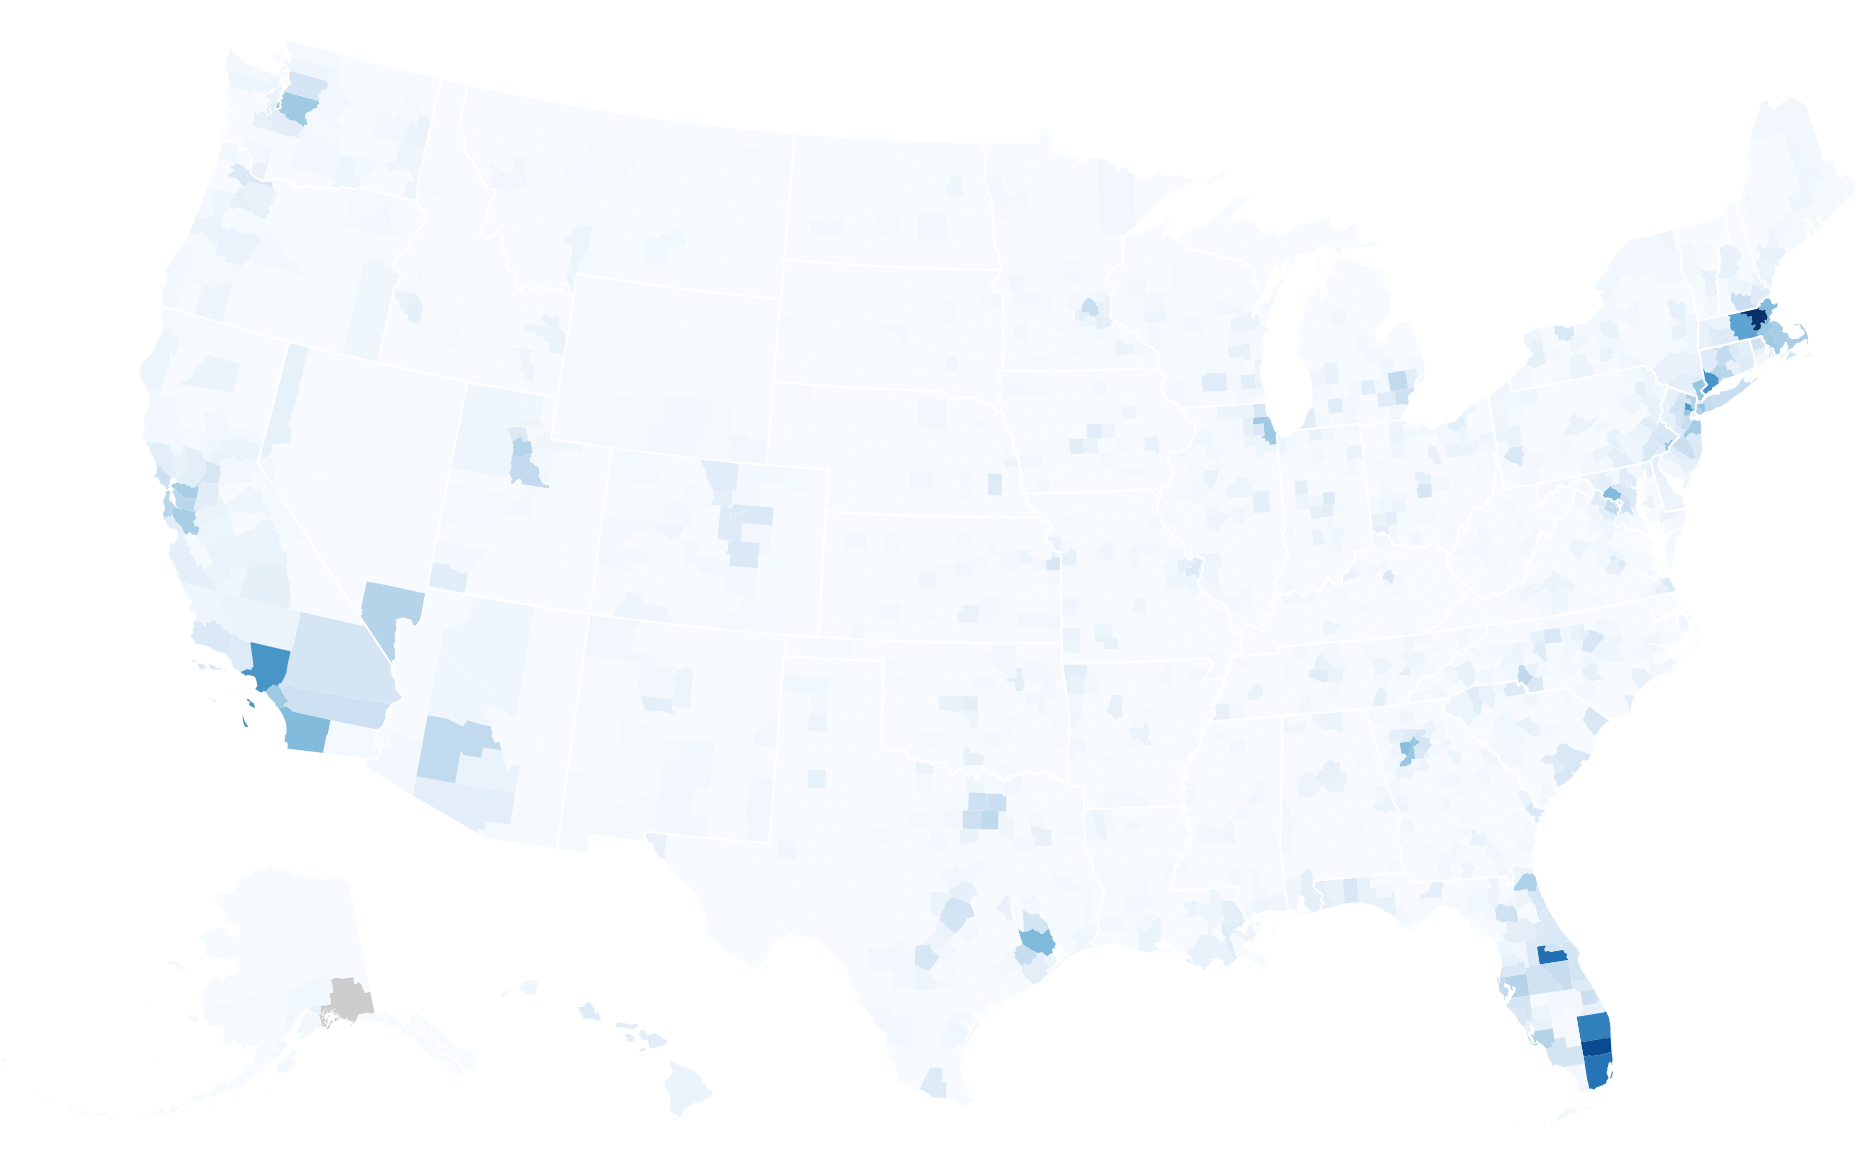
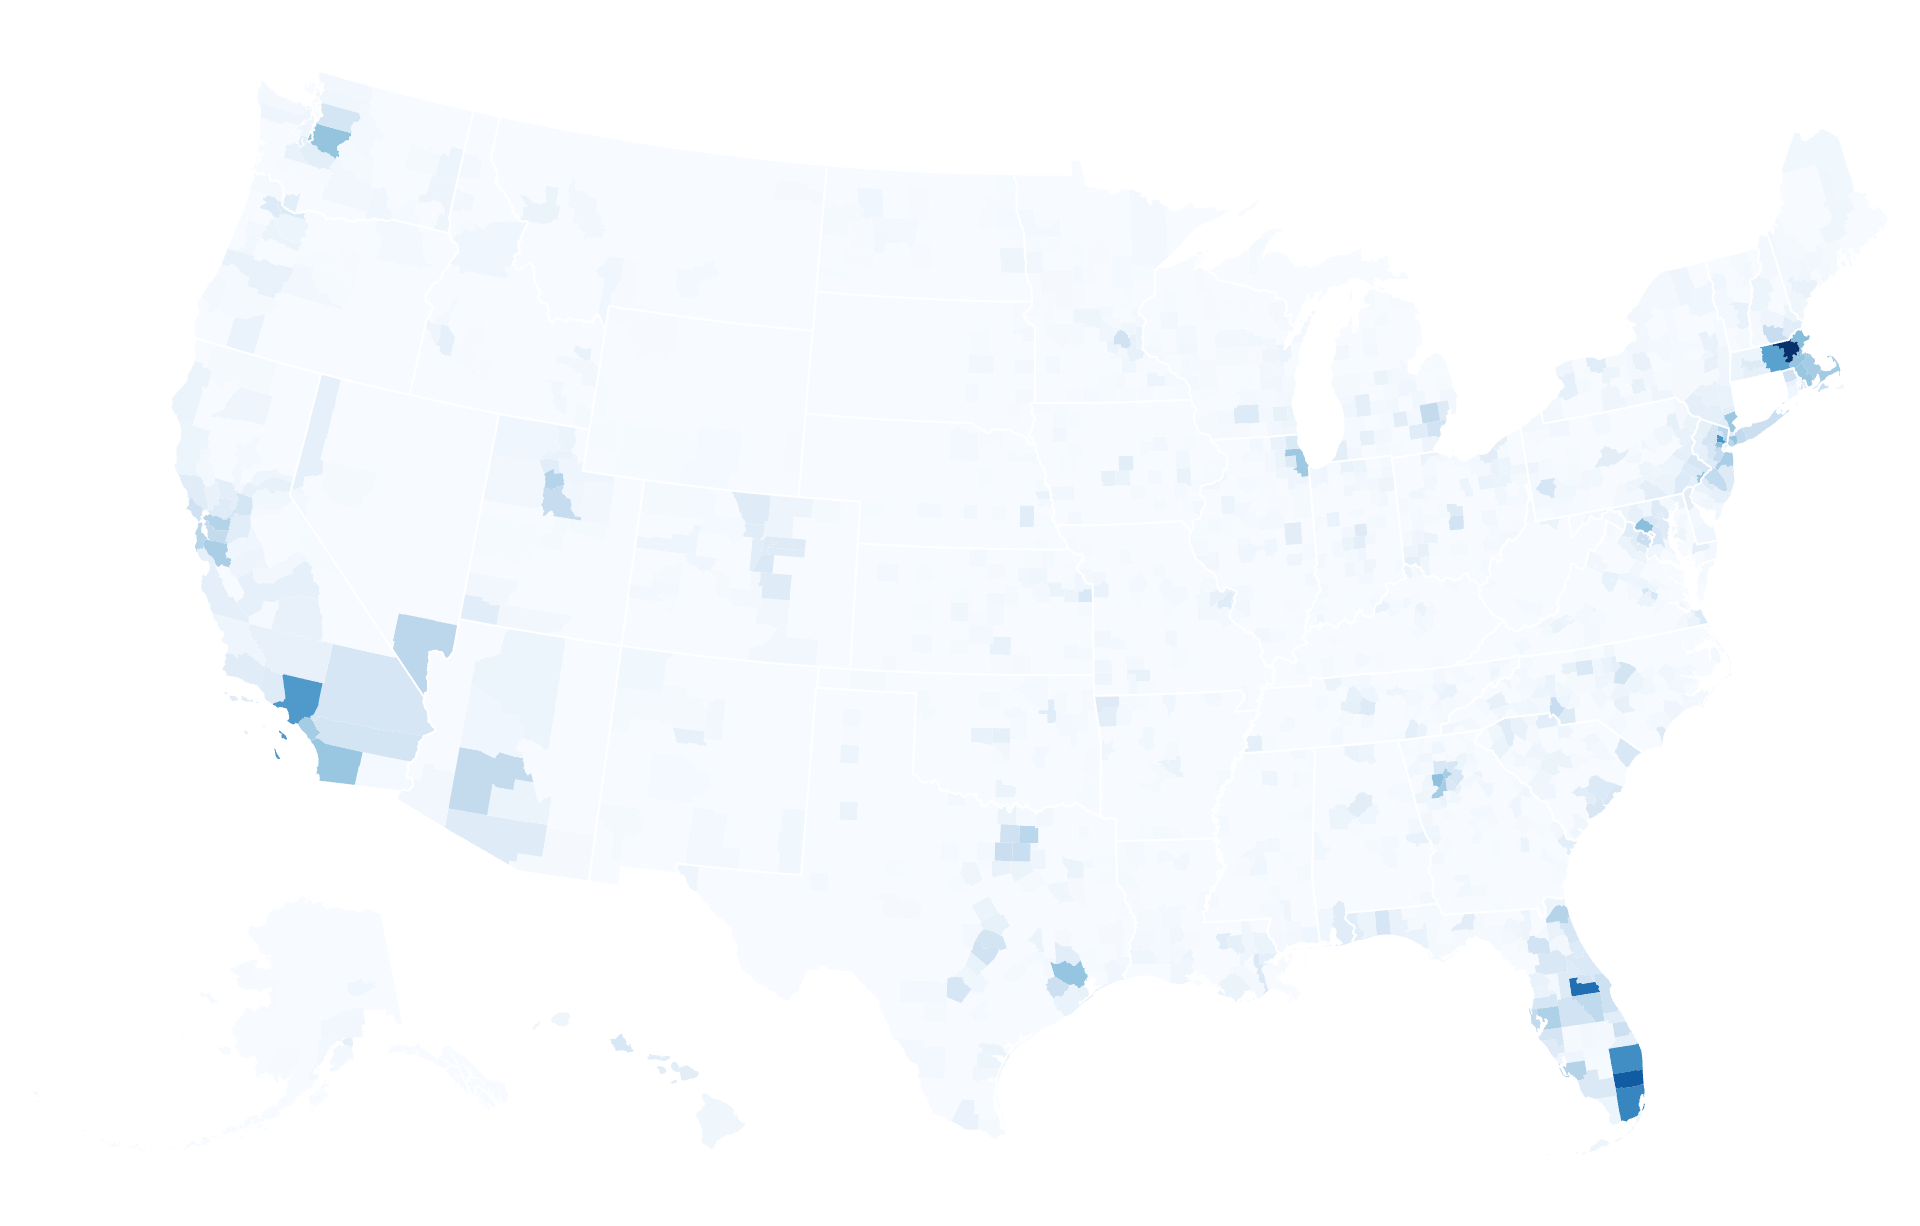
updated country population maps for WWC 2023

diff --git a/README.md b/README.md
@@ -5,13 +5,17 @@ A quick web tool that suggests World Cup games to watch in your community based 
 foreign-born populations. This combines US Census data, with a match schedule to suggest
 the best games to watch based on the population of people near where you live.
 
-Dependencies
-------------
+Updating
+--------
 
-For data generation you need Python 3 and jupyter. See the `census-data` folder.
+Updating this to the latest World Cup is a series of automated and manual steps:
 
-I also did exploratory visualization and data analysis in
-[an Observable notebook](https://observablehq.com/d/62390c8bd663ff6f).
+1. Open up the notebook at `census-data/data-generation.pynb` and follow those instructions
+2. Copy-and-paste the data in `census-data/country-recs-json` to `data/recommendations.json`
+3. Open the [county-map observable notebook](https://observablehq.com/d/62390c8bd663ff6f) and update the `county-populaton-data-tidy.csv` file
+4. Go through each country alpha-3 to generate and save the map to `images/map-raw-pop`
+5. Update `data/teams.js` with all the team names and metadata you find
+6. Now you're ready to write the story and build the interactive you want to
 
 Deploying
 ---------
